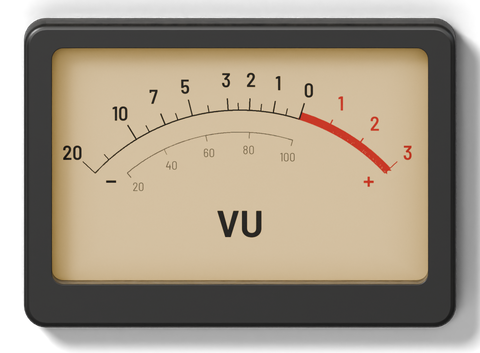
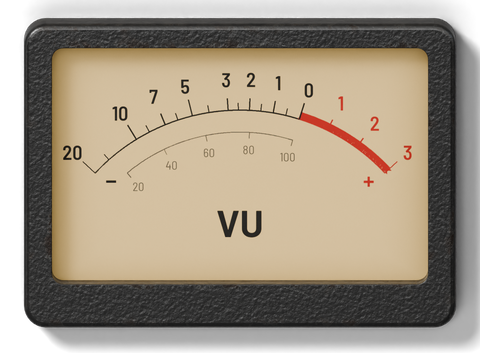
View › Page Size (Fit to Window up to 1.5x, Actual, 125 %, 150 %): the whole page drawn larger; the VU bezel re-rendered in a textured black finish (finish_maps powder, worn) instead of smooth phenolic; CI screenshot at 1.5x
Claude-Session: https://claude.ai/code/session_01DHZSZEWFo9DfuD3AthcZcb

Changed region(s): [[0.125, 0.779, 0.875, 0.8102]]

diff --git a/Sources/IRCaptureApp/Views.swift b/Sources/IRCaptureApp/Views.swift
@@ -28,6 +28,9 @@ struct IRCaptureApp: App {
             CommandGroup(replacing: .appInfo) {
                 Button("About \(Product.name)") { Support.showAbout() }
             }
+            CommandGroup(after: .toolbar) {
+                PageSizeMenu()
+            }
             CommandGroup(replacing: .help) {
                 Button("Quick Start") { model.helpPage = .quickStart }
                 Button("Wiring") { model.helpPage = .wiring }
@@ -44,9 +47,68 @@ struct IRCaptureApp: App {
     }
 }
 
+/// View › Page Size: how large the page is drawn. Fit to Window (the default) grows it with the window's width.
+enum PageSize: String, CaseIterable {
+    case fit, actual, large, larger
+    static let key = "pageSize"
+    /// The page's own width at actual size (the 900 pt column, the stage's padding and moulding).
+    static let baseWidth: CGFloat = 960
+    var title: String {
+        switch self {
+        case .fit: return "Fit to Window"
+        case .actual: return "Actual Size"
+        case .large: return "Large (125 %)"
+        case .larger: return "Larger (150 %)"
+        }
+    }
+    static func scale(_ p: PageSize, window: CGSize) -> CGFloat {
+        if let i = ProcessInfo.processInfo.arguments.firstIndex(of: "--page-scale"), i + 1 < ProcessInfo.processInfo.arguments.count,
+           let v = Double(ProcessInfo.processInfo.arguments[i + 1]) { return CGFloat(v) }       // CI hook
+        switch p {
+        case .actual: return 1
+        case .large: return 1.25
+        case .larger: return 1.5
+        case .fit:
+            guard window.width > 0 else { return 1 }
+            // in steps of 1/16, so a window being resized doesn't redraw every picture at every pixel
+            let s = min(1.5, max(1, window.width / baseWidth))
+            return (s * 16).rounded(.down) / 16
+        }
+    }
+}
+
+struct PageSizeMenu: View {
+    @AppStorage(PageSize.key) private var pageSize = PageSize.fit.rawValue
+    var body: some View {
+        Picker("Page Size", selection: $pageSize) {
+            ForEach(PageSize.allCases, id: \.rawValue) { Text($0.title).tag($0.rawValue) }
+        }
+    }
+}
+
 struct ContentView: View {
     @EnvironmentObject var m: AppModel
+    @AppStorage(PageSize.key) private var pageSize = PageSize.fit.rawValue
     var body: some View {
+        // (11-10, Lowell: "scale larger as long as it's still super crisp") The whole page, wall and shelf included,
+        // is laid out at its own size and drawn larger: Fit to Window grows it with a wide window (up to 1.5 times),
+        // or a fixed size from View › Page Size. The pictures carry 3 to 6 px a point, enough for 1.5 times on Retina.
+        GeometryReader { g in
+            let s = PageSize.scale(PageSize(rawValue: pageSize) ?? .fit, window: g.size)
+            page
+                .frame(width: g.size.width / s, height: g.size.height / s)
+                .scaleEffect(s, anchor: .topLeading)
+        }
+        .background(WorkshopWall().ignoresSafeArea())
+        .sheet(isPresented: $m.showWelcome) { WelcomeSheet().environmentObject(m).workshopDefaults(.panel) }
+        .sheet(item: $m.helpPage) { p in HelpSheet(page: p).environmentObject(m).workshopDefaults(.panel) }
+        .sheet(isPresented: Binding(get: { m.reexportFolder != nil }, set: { if !$0 { m.reexportFolder = nil } })) {
+            ReexportSheet().environmentObject(m).workshopDefaults(.panel)
+        }
+        .onAppear { runAutomation() }
+    }
+
+    @ViewBuilder var page: some View {
         VStack(spacing: 0) {
             Shelf()
             StageOpening {
@@ -76,14 +138,8 @@ struct ContentView: View {
             }
             .padding(.horizontal, 24).padding(.bottom, 22)
         }
-        .background(WorkshopWall().ignoresSafeArea())
+        .background(WorkshopWall())
         .workshopDefaults()
-        .sheet(isPresented: $m.showWelcome) { WelcomeSheet().environmentObject(m).workshopDefaults(.panel) }
-        .sheet(item: $m.helpPage) { p in HelpSheet(page: p).environmentObject(m).workshopDefaults(.panel) }
-        .sheet(isPresented: Binding(get: { m.reexportFolder != nil }, set: { if !$0 { m.reexportFolder = nil } })) {
-            ReexportSheet().environmentObject(m).workshopDefaults(.panel)
-        }
-        .onAppear { runAutomation() }
     }
 
     /// CI hooks: process the simulated recordings, render the diagrams, or open a given view.

diff --git a/design/render/ircapture_vu.py b/design/render/ircapture_vu.py
@@ -146,8 +146,16 @@ def card_material(path, w, h, lit):
 
 
 def phenolic(name='vubezel'):
-    """Black phenolic, moulded: a satin skin, a faint orange peel, the edges handled to a dull sheen, dust in the
-    corners."""
+    """(11-10, Lowell: the bezel "a little too clean and smooth digital") Black phenolic on finish_maps' true-scale
+    maps: the moulded skin's fine peel, hairline scratches from years of handling, small chips at the corners and
+    edges showing the brown filler under the skin, dust and grime in the window's corners. VU_BEZEL=plain: the first
+    version below."""
+    if os.environ.get('VU_BEZEL') != 'plain':
+        import finish_maps as FM
+        m = FM.material(name, os.environ.get('VU_BEZEL_KIND', 'powder'), '#0d0c0b', float(os.environ.get('VU_BEZEL_WEAR', '0.45')), 4211, 'irc-vu-bezel',
+                        bare='#3b2c22', dirt='#1e1b17', dirt_k=0.35, coat_rough=0.5)
+        K.calm_up(m, 0.6)
+        return m
     m = mat(name, srgb('#121110'), rough=0.38, coat=0.25, coat_rough=0.25, spec=0.4)
     nt = m.node_tree; co = obj_coords(nt)
     add_bump(m, noise(nt, co, 60.0, 3.0, 0.6), 0.05, 0.002)
